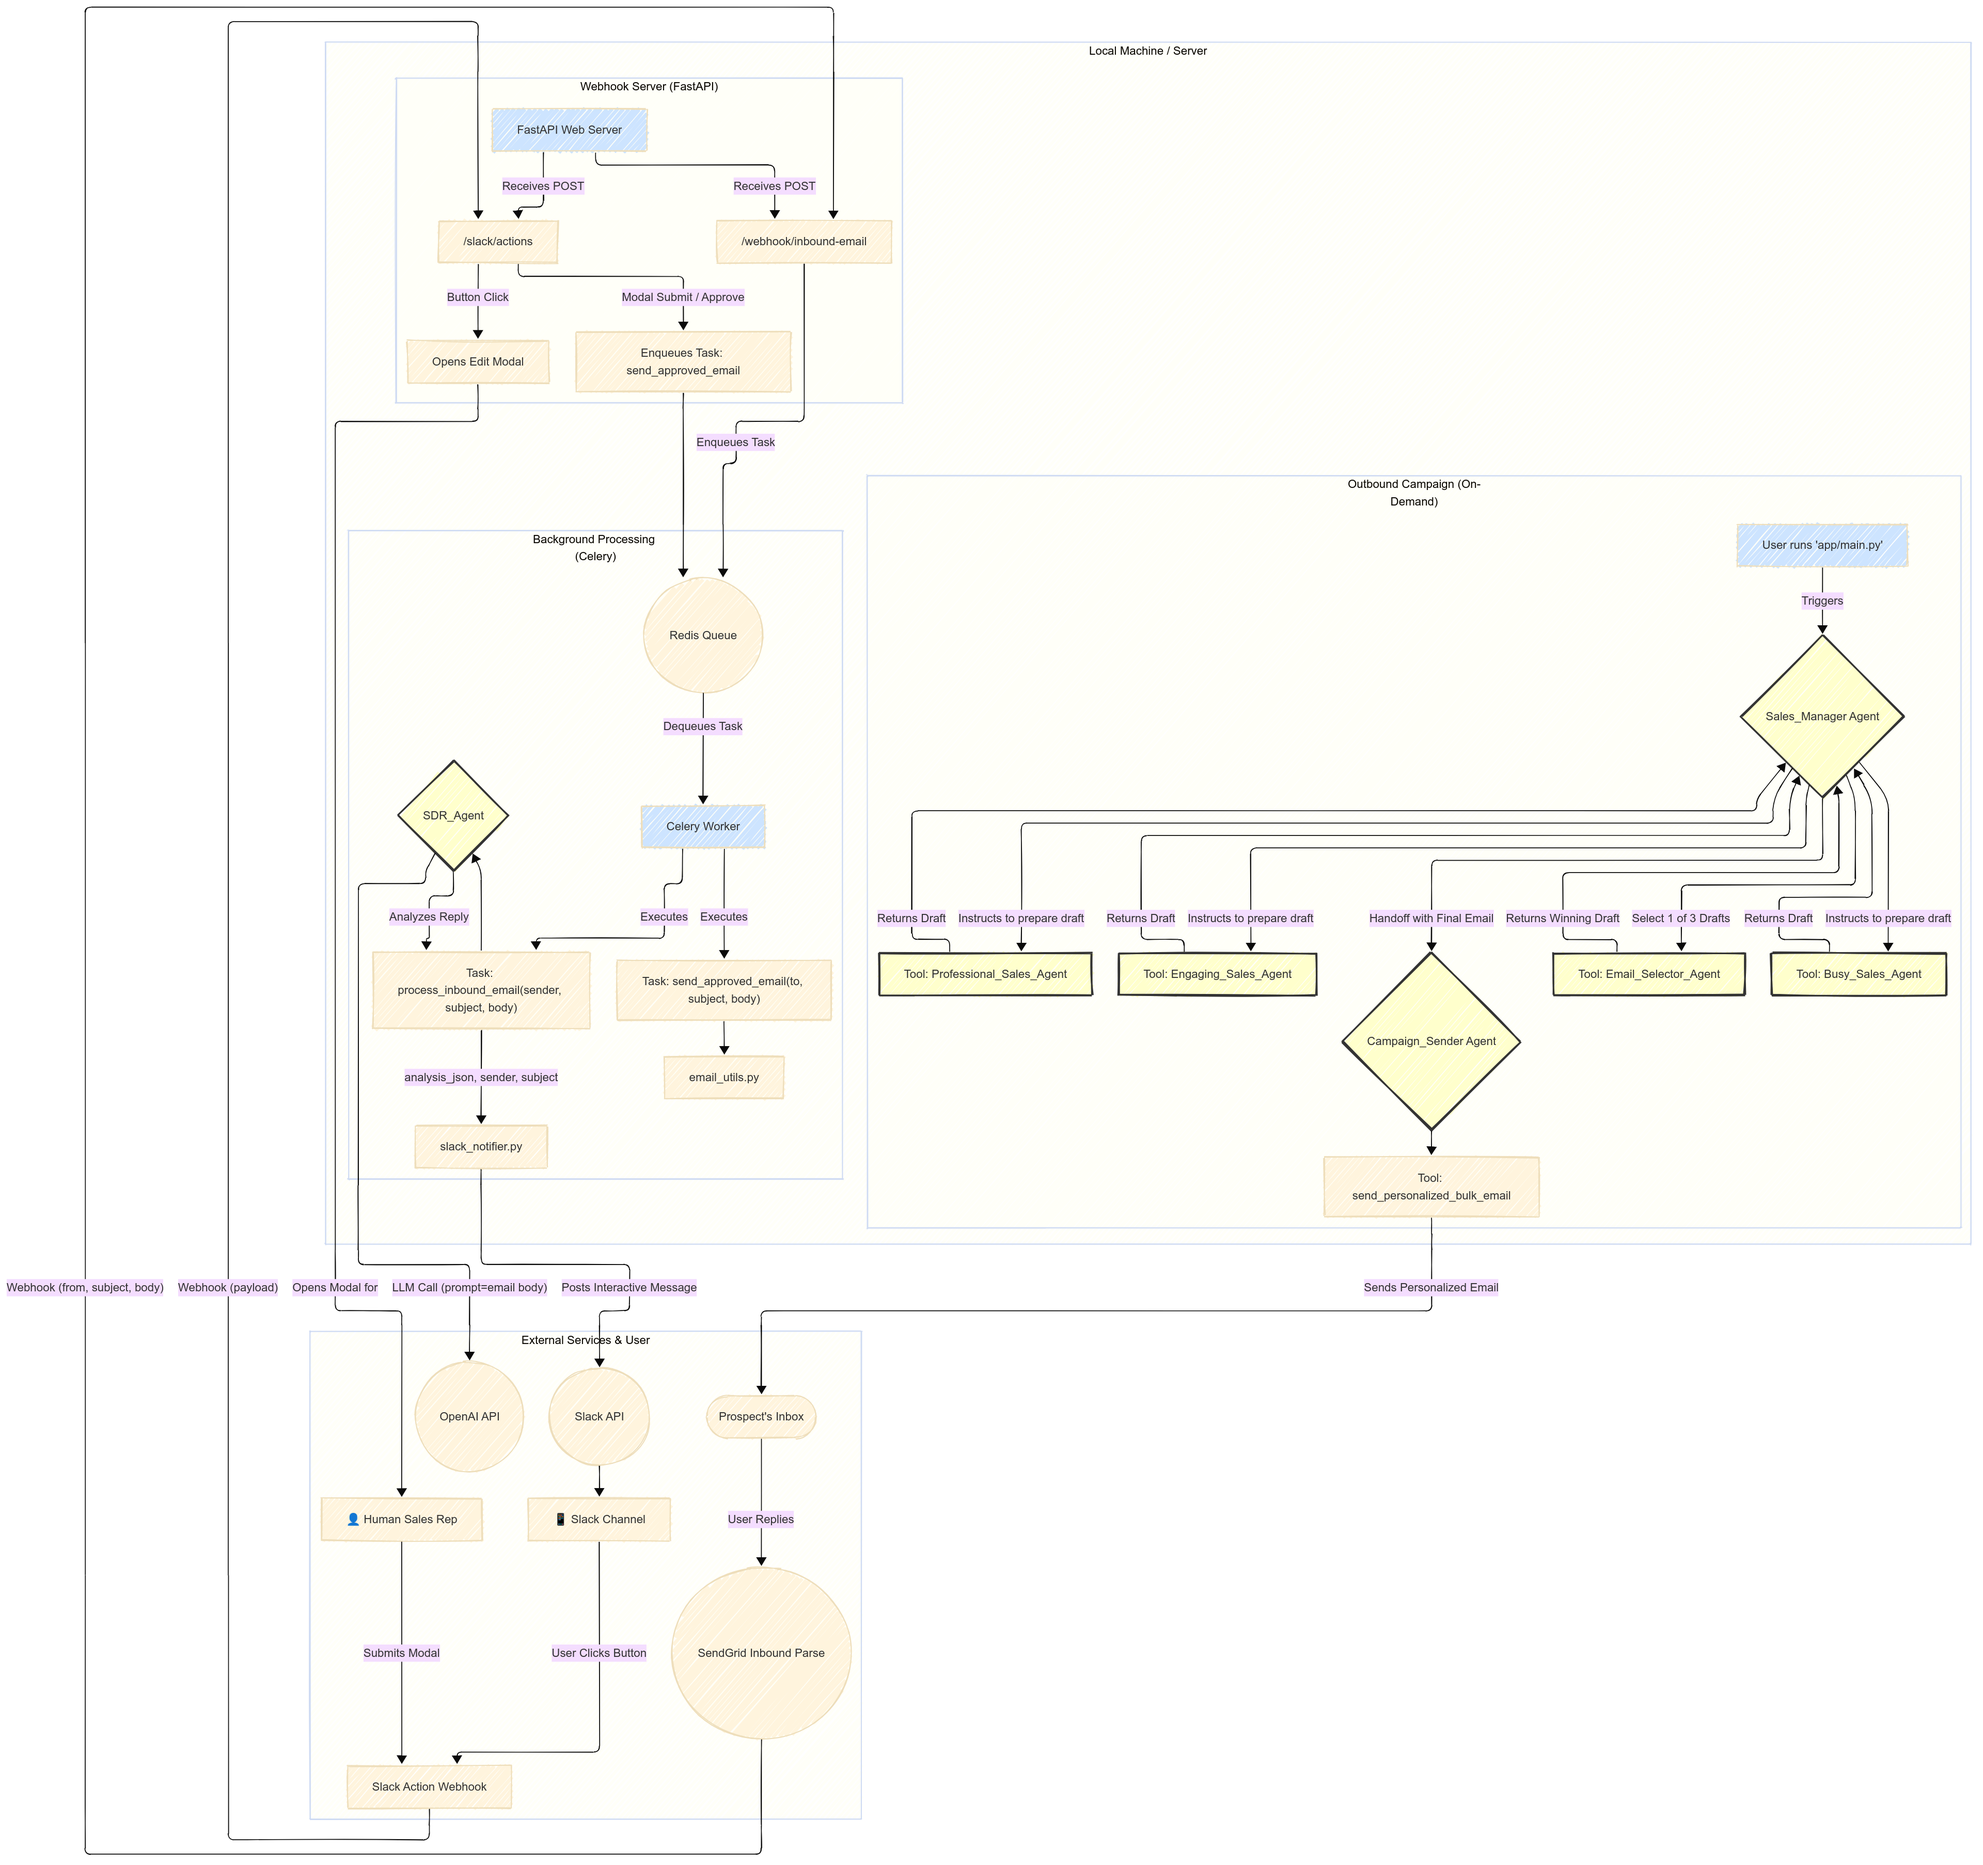
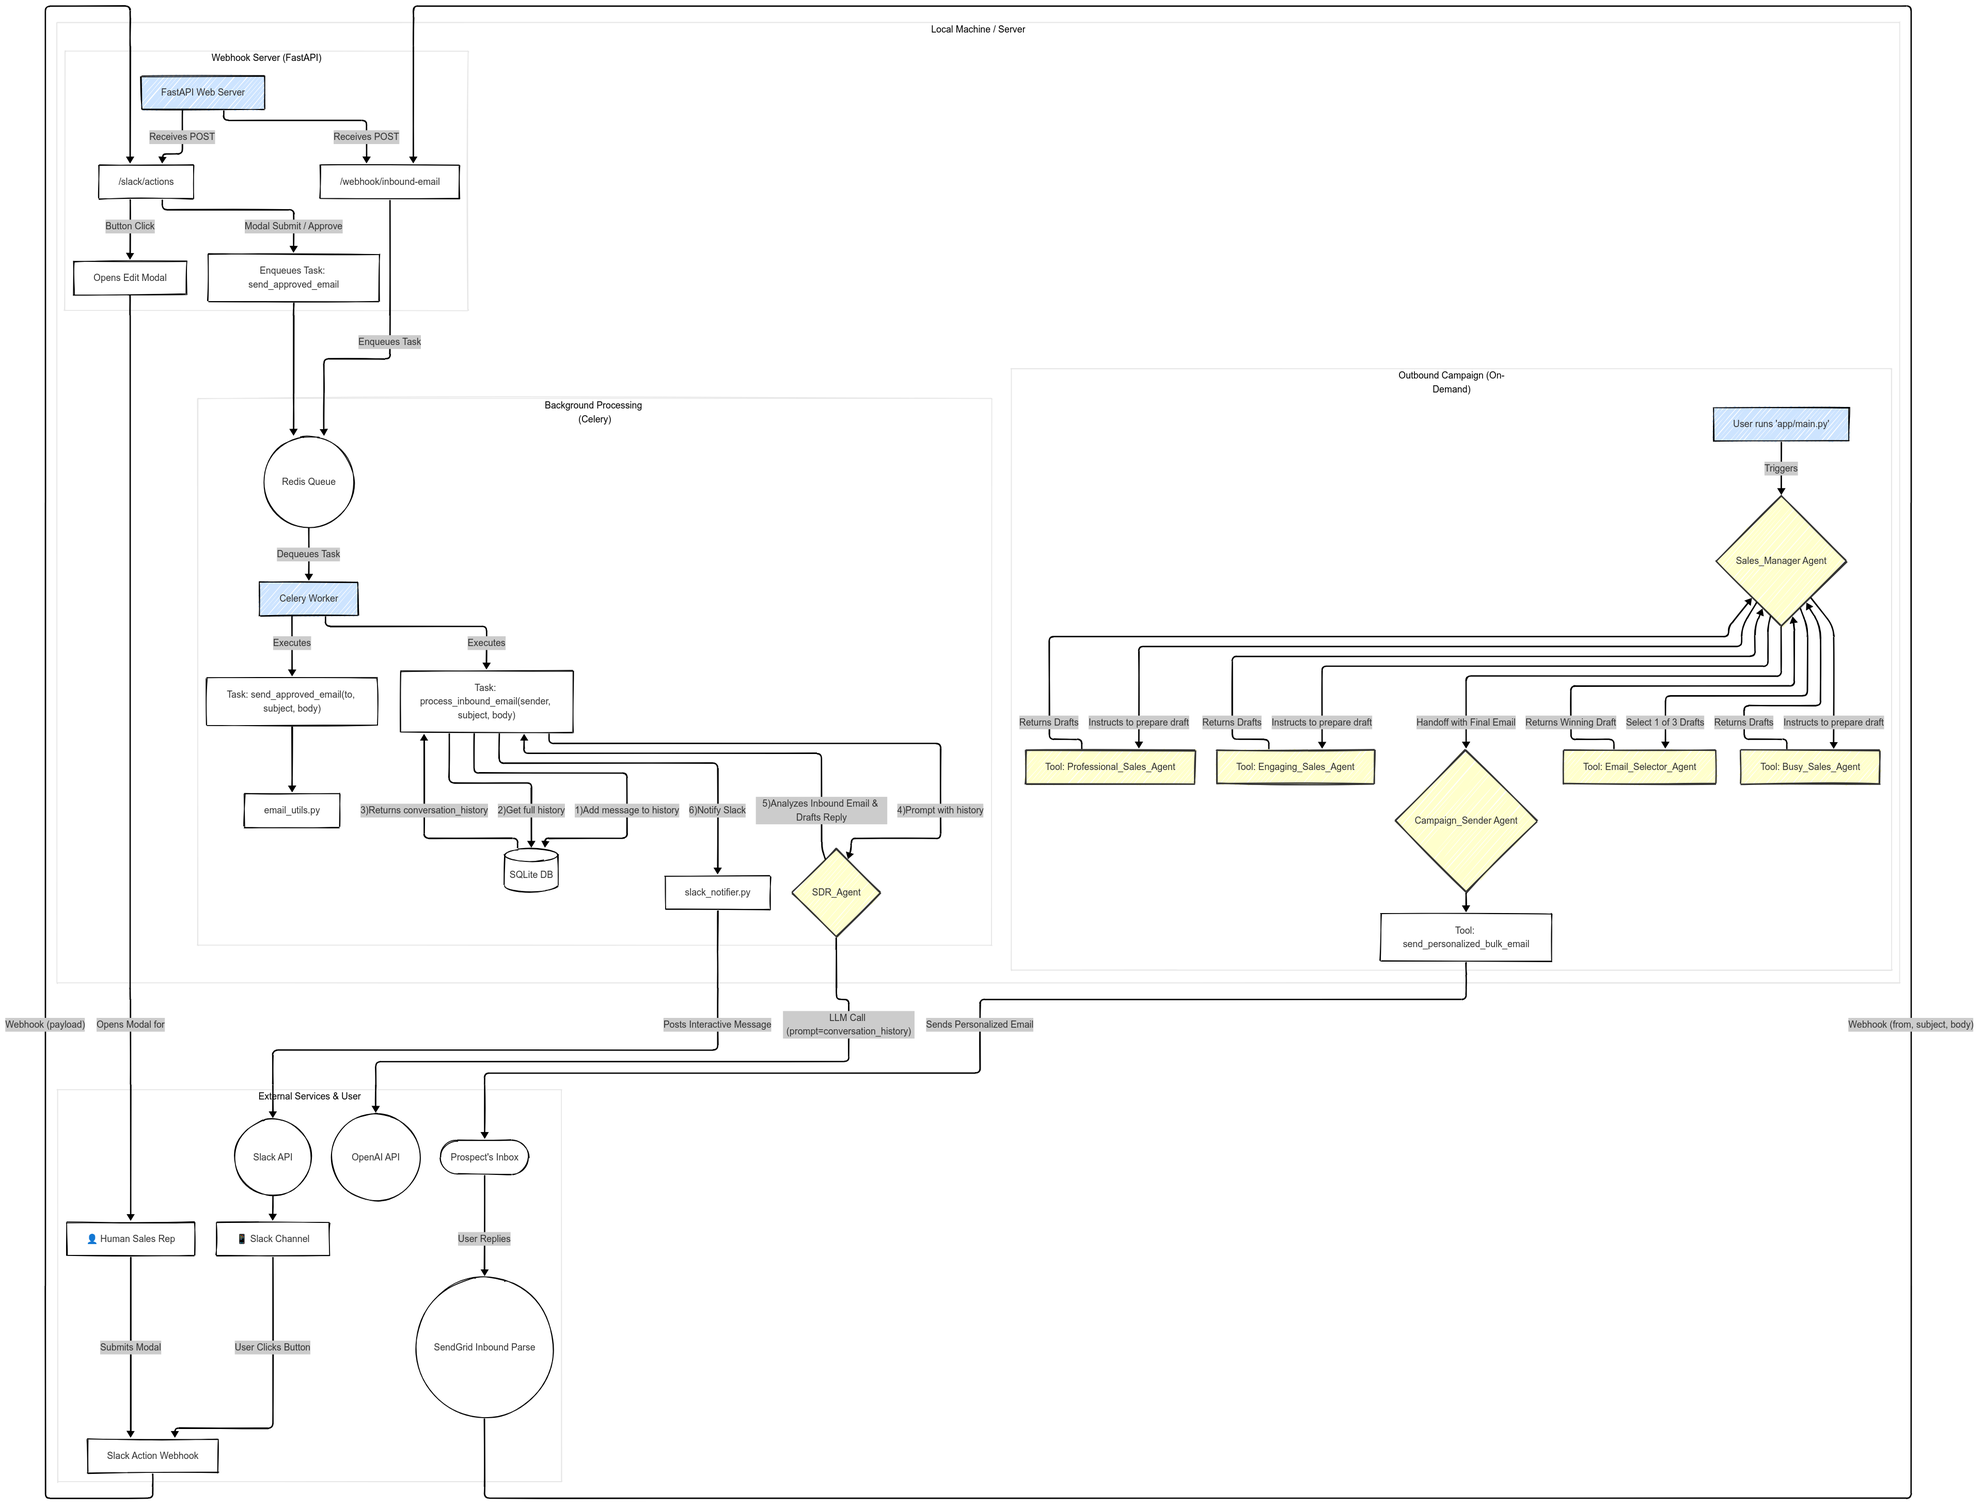
Updated to include state management and memory feature

diff --git a/README.md b/README.md
@@ -7,7 +7,8 @@ An autonomous, multi-agent system designed to automate sales email outreach, int
 * **Autonomous Email Campaign Creation:** A Sales_Manager agent orchestrates a team of specialized agents to generate multiple email drafts, select the best one, and delegate the sending of personalized cold emails. 
 * **Personalized Bulk Emailing:** Sends personalized emails to a list of prospects from a .csv file, using placeholders for both the subject and body.
 * **Asynchronous Task Queue:** Utilizes **Celery** and **Redis** to offload long-running AI and email-sending tasks, ensuring the web server remains fast and responsive.
-* **Intelligent Reply Processing:** Automatically receives email replies via a SendGrid webhook. A dedicated SDR_Agent then analyzes the reply's content to classify its intent and summarize its key points.  
+* **Intelligent Reply Processing:** Automatically receives email replies via a SendGrid webhook. A dedicated SDR_Agent then analyzes the reply's content to classify its intent and summarize its key points.
+* **State Management & Memory:** Implements a SQLite database to store the complete conversation history with each prospect. This gives the SDR_Agent the context it needs to handle multi-turn conversations, understand previous interactions, and generate more relevant, context-aware replies.
 * **Interactive Human-in-the-Loop (HITL) Interface:** The agent's analysis is sent as an interactive notification to a Slack channel, allowing a human user to take action.  
 * **One-Click Actions:** From Slack, a user can:  
   * **Approve & Send:** Immediately send the AI-drafted reply.  
@@ -31,7 +32,8 @@ This diagram illustrates the complete, end-to-end workflow of the application, f
 * **Web Framework:** FastAPI
 * **Process Manager:** Gunicorn
 * **Task Queue:** Celery  
-* **Message Broker:** Redis  
+* **Message Broker:** Redis
+* **Database:** SQLite (with SQLAlchemy)
 * **Email Service:** SendGrid  
 * **User Interface:** Slack SDK  
 * **Local Tunneling (Development):** ngrok
